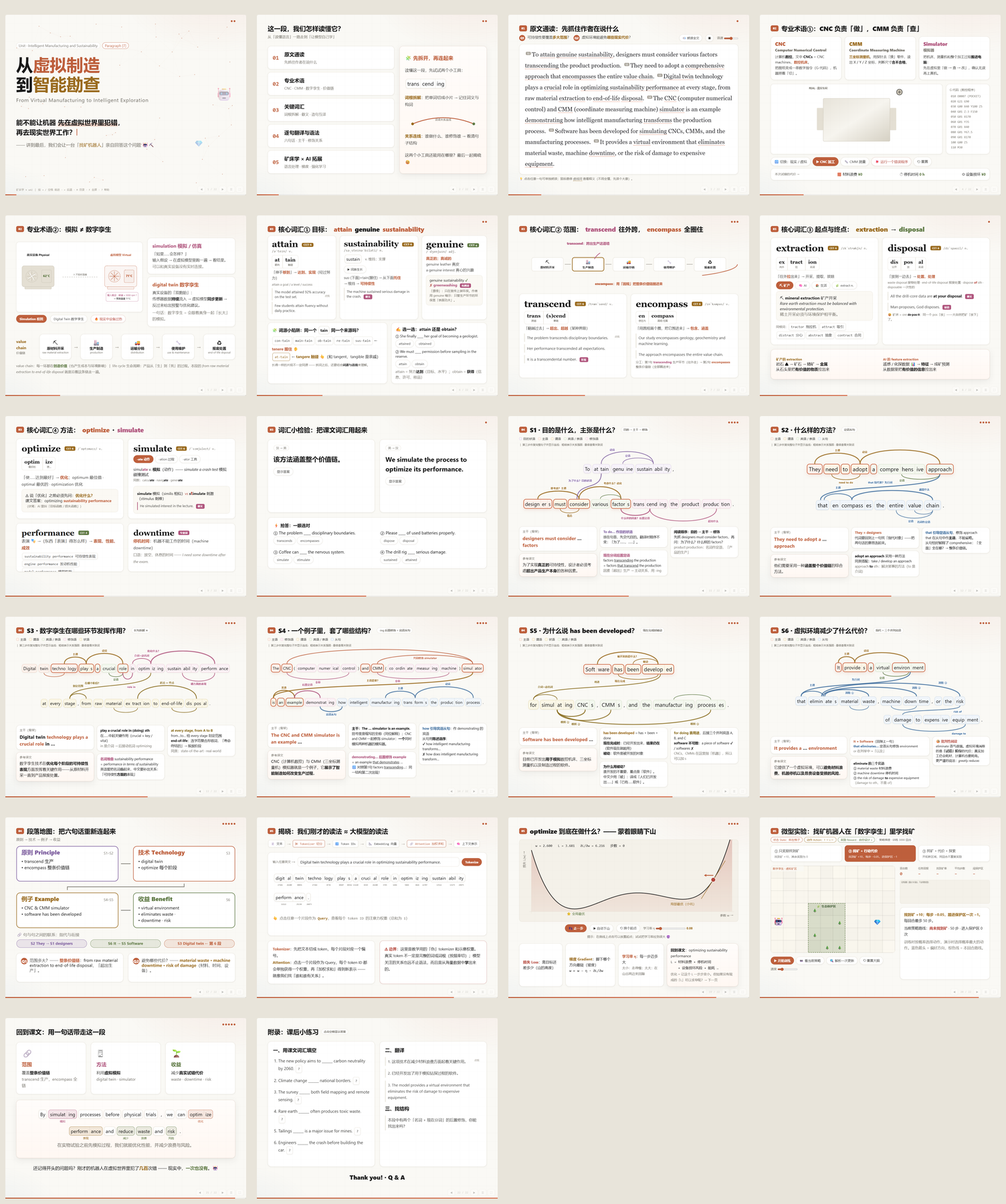
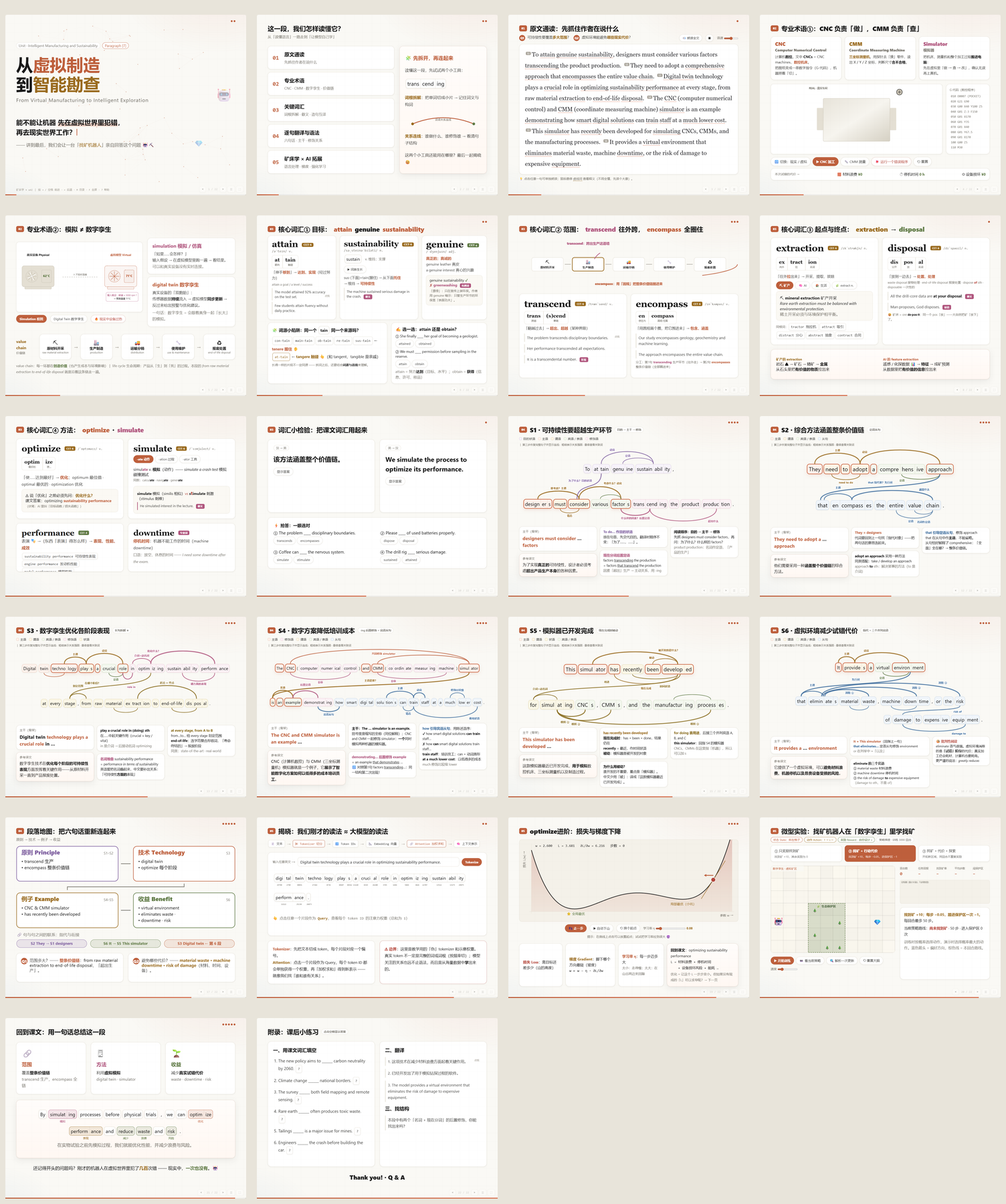
Update source sentences and explanations in both slide formats

diff --git a/paragraph7-4x3.html b/paragraph7-4x3.html
@@ -647,14 +647,14 @@ input[type=text]:focus{outline:none;border-color:var(--coral);box-shadow:0 0 0 3
   <div class="sent"></div>
   <div class="sbottom"></div>
 </section>
-<section class="slide" data-title="第4句：模拟器展示生产变革" data-sent="4" data-steps="4">
-  <h2><span class="no">04</span>S4 · 模拟器展示生产变革<span class="tag">-ing 后置修饰 + 宾语从句</span></h2>
+<section class="slide" data-title="第4句：数字方案降低培训成本" data-sent="4" data-steps="4">
+  <h2><span class="no">04</span>S4 · 数字方案降低培训成本<span class="tag">-ing 后置修饰 + 宾语从句</span></h2>
   <div class="legend"></div>
   <div class="sent"></div>
   <div class="sbottom"></div>
 </section>
-<section class="slide" data-title="第5句：模拟软件已开发完成" data-sent="5" data-steps="4">
-  <h2><span class="no">04</span>S5 · 模拟软件已开发完成<span class="tag">现在完成时被动</span></h2>
+<section class="slide" data-title="第5句：模拟器已开发完成" data-sent="5" data-steps="4">
+  <h2><span class="no">04</span>S5 · 模拟器已开发完成<span class="tag">现在完成时被动</span></h2>
   <div class="legend"></div>
   <div class="sent"></div>
   <div class="sbottom"></div>
@@ -836,25 +836,25 @@ const SENTS={
  notes:['<b>play a crucial role in (doing) sth</b><br>在……中起关键作用（crucial ≈ key / vital）<br><span class="muted">in 是介词 → 后接动名词 optimizing</span>',
   '<b class="c-pink">名词堆叠</b> sustainability performance<br>= performance <i>in terms of</i> sustainability<br>英语爱把名词叠起来，中文要补出关系：「可持续性<b>方面的</b>表现」',
   '<b class="c-yellow">at every stage, from A to B</b><br>from…to… 给 every stage 划定范围<br><b>end-of-life</b>：连字符复合形容词，「寿命终结的」→ 报废阶段<br><span class="muted">同类：state-of-the-art · real-world</span>']},
-4:{fs:20,toks:'The/sub/the* CNC/sub/cnc* (/p computer/mod/c1 numer·ical/mod/c2 control/mod/c3 )/p and/sub/and* CMM/sub/cmm* (/p co·ordin·ate/mod/m1 measur·ing/mod/m2 machine/mod/m3 )/p simul·ator/sub/sim* | is/pre/is* an/obj/an* example/obj/ex* demonstrat·ing/mod/demo how/cls/how intelligent/cls/int manufactur·ing/cls/man trans·form·s/cls/tf the/cls/the2 produc·tion/cls/prodn process/cls/proc ./p',
- arcs:[['is','sim','主语是谁？',1],['is','ex','系表',1,'u'],['demo','ex','后置定语',.9,'u'],['how','demo','宾语从句',.8,'d'],['tf','man','主谓',.8,'u'],['tf','proc','动宾',.8,'u'],['cnc','sim','',.55,'u'],['cmm','sim','共同修饰 simulator',.55,'u'],['c3','cnc','全称',.4,'d'],['m3','cmm','全称',.4,'d']],
+4:{fs:20,toks:'The/sub/the* CNC/sub/cnc* (/p computer/mod/c1 numer·ical/mod/c2 control/mod/c3 )/p and/sub/and* CMM/sub/cmm* (/p co·ordin·ate/mod/m1 measur·ing/mod/m2 machine/mod/m3 )/p simul·ator/sub/sim* | is/pre/is* an/obj/an* example/obj/ex* demonstrat·ing/mod/demo how/cls/how smart/cls/smart digi·tal/cls/digital solu·tion·s/cls/sol can/cls/can train/cls/train staff/cls/staff at/cls/at a/cls/a2 much/cls/much low·er/cls/lower cost/cls/cost ./p',
+ arcs:[['is','sim','主语是谁？',1],['is','ex','系表',1,'u'],['demo','ex','后置定语',.9,'u'],['how','demo','宾语从句',.8,'d'],['train','sol','主谓',.8,'u'],['train','staff','动宾',.8,'u'],['cnc','sim','',.55,'u'],['cmm','sim','共同修饰 simulator',.55,'u'],['c3','cnc','全称',.4,'d'],['m3','cmm','全称',.4,'d'],['can','train','情态',.45,'d'],['cost','train','费用状语',.6,'d'],['much','lower','修饰比较级',.45,'u']],
  skel:'<em>The CNC and CMM simulator is an example</em> …',
- zh:'CNC（计算机数控）与 CMM（三坐标测量机）模拟器就是一个例子，它<b>展示了智能制造如何改变生产过程</b>。',
+ zh:'CNC（计算机数控）与 CMM（三坐标测量机）模拟器就是一个例子，它<b>展示了智能数字化方案如何以低得多的成本培训员工</b>。',
  notes:['<b>主干：The … simulator is an example.</b><br>括号里是缩写的全称（同位解释）；CNC and CMM 一起修饰 simulator：<b>一个</b>同时模拟两种机器的模拟器。',
   '<b class="c-pink">demonstrating… 后置修饰 example</b><br>= an example <u>that demonstrates</u> …<br>🔁 对照第1句 factors <u>transcending</u>…：同一结构第二次出现！',
-  '<b class="c-blue">how 引导宾语从句</b>：作 demonstrating 的宾语<br>从句用<b>陈述语序</b>：<br>✔ how intelligent manufacturing transforms…<br>✘ how does intelligent manufacturing transform…']},
-5:{fs:27,toks:'Soft·ware/sub/sw* has/pre/has* been/pre/been* develop·ed/pre/dev* | for/adv/for simul·at·ing/adv/sim CNC·s/obj/cncs ,/p CMM·s/obj/cmms ,/p and/obj/and the/obj/the manufactur·ing/obj/man process·es/obj/proc ./p',
- arcs:[['dev','sw','被开发的是什么？',1,'u'],['has','dev','现在完成',.5,'d'],['been','dev','被动',.5,'u'],['for','dev','用途',.7],['sim','for','介词+动名词',.5,'u'],['sim','cncs','模拟 ①',1,'d'],['sim','cmms','模拟 ②',.85,'d'],['sim','proc','模拟 ③',.85,'d'],['man','proc','',.35,'u']],
- skel:'<em>Software has been developed</em> …',
- zh:'目前已开发出<b>用于模拟</b>数控机床、三坐标测量机以及制造过程的软件。',
- notes:['<b class="c-amber">has been developed</b> = has + been + done<br><b>现在完成时</b>：已经开发出来，<b>结果仍在</b>（软件现在就能用）<br><b>被动</b>：软件是被开发的对象',
-  '<b>为什么用被动？</b><br>谁开发的不重要，重点是「软件」。<br>中文少用「被」：译成「人们已开发出……」或「已有……软件」。',
-  '<b class="c-yellow">for doing 表用途</b>，后接三个并列宾语 A, B, and C<br><b>software 不可数</b>：a piece of software ✔ / softwares ✘<br><span class="muted">CNCs、CMMs 在这里指「机器」，所以可以加 s</span>']},
+  '<b class="c-blue">how 引导宾语从句</b>，用陈述语序：<br>✔ how smart digital solutions <b>can train</b> staff…<br>✘ how <b>can</b> smart digital solutions train staff…<br><b>train staff</b>：培训员工；can + 动词原形<br><b>at a much lower cost</b>：以低得多的成本<br><span class="muted">much 修饰比较级 lower</span>']},
+5:{fs:27,toks:'This/sub/this* simul·ator/sub/simulator* has/pre/has* recently/adv/recent been/pre/been* develop·ed/pre/dev* | for/adv/for simul·at·ing/adv/sim CNC·s/obj/cncs ,/p CMM·s/obj/cmms ,/p and/obj/and the/obj/the manufactur·ing/obj/man process·es/obj/proc ./p',
+ arcs:[['dev','simulator','被开发的是什么？',1,'u'],['has','dev','现在完成',.5,'d'],['been','dev','被动',.5,'u'],['for','dev','用途',.7],['sim','for','介词+动名词',.5,'u'],['sim','cncs','模拟 ①',1,'d'],['sim','cmms','模拟 ②',.85,'d'],['sim','proc','模拟 ③',.85,'d'],['man','proc','',.35,'u'],['recent','dev','时间状语',.5,'d']],
+ skel:'<em>This simulator has been developed</em> …',
+ zh:'这款模拟器最近已开发完成，<b>用于模拟</b>数控机床、三坐标测量机以及制造过程。',
+ notes:['<b class="c-amber">has recently been developed</b><br><b>现在完成时</b>：has + been + done，结果仍在<br><b>recently</b> = 最近，作时间状语<br><b>被动</b>：模拟器是被开发的对象',
+  '<b>为什么用被动？</b><br>谁开发的不重要，重点是「模拟器」。<br>中文少用「被」：译成「这款模拟器最近已开发完成」。',
+  '<b class="c-yellow">for doing 表用途</b>，后接三个并列宾语 A, B, and C<br><b>this simulator</b>：回指 S4 的模拟器<br><span class="muted">CNCs、CMMs 在这里指「机器」，所以可以加 s</span>']},
 6:{fs:24,toks:'It/sub/it* provide·s/pre/prov* a/obj/a* virtual/obj/virt environ·ment/obj/env* | that/cls/that elimin·ate·s/cls/elim material/cls/mat waste/cls/waste ,/p machine/cls/mach down·time/cls/dt ,/p or/cls/or the/cls/the risk/cls/risk | of/cls/of damage/cls/dmg to/cls/to expens·ive/cls/expv equip·ment/cls/eq ./p',
  arcs:[['prov','it','主谓',1,'u'],['prov','env','动宾',1,'u'],['virt','env','定语',.5,'d'],['that','env','先行词',.9],['elim','that','主谓',.7,'u'],['elim','waste','消除 ①',1,'u'],['elim','dt','消除 ②',.9,'u'],['elim','risk','消除 ③',.9,'u'],['mat','waste','',.3,'d'],['mach','dt','',.3,'d'],['dmg','risk','risk of',.6,'d'],['eq','dmg','damage to',.6,'d']],
  skel:'<em>It provides a</em> … <em>environment</em>',
  zh:'它提供了一个虚拟环境，可以<b>避免材料浪费、机器停机以及昂贵设备受损的风险</b>。',
- notes:['<b class="c-cyan">It = Software</b>（回指上一句）<br><b class="c-blue">that eliminates…</b> 定语从句修饰 environment<br><span class="muted">or 在列举中 ≈「以及」</span>',
+ notes:['<b class="c-cyan">It = This simulator</b>（回指上一句）<br><b class="c-blue">that eliminates…</b> 定语从句修饰 environment<br><span class="muted">or 在列举中 ≈「以及」</span>',
   '<b>eliminate 的三个宾语</b><br>① material waste 材料浪费<br>② machine downtime 停机时间<br>③ the risk of damage <b>to</b> expensive equipment <span class="muted">（damage to sth，不是 of）</span>',
   '<b class="c-red">🧐 批判性阅读</b><br>eliminate 语气很强。虚拟环境消除的是<b>「试错」阶段</b>的代价；真实加工仍会耗材，计算机也要耗电。<br>更严谨的说法：<i>greatly reduces</i>']}
 };
@@ -924,10 +924,10 @@ document.addEventListener('click',e=>{
 const PARA=["To attain genuine sustainability, designers must consider various factors transcending the product production.",
 "They need to adopt a comprehensive approach that encompasses the entire value chain.",
 "Digital twin technology plays a crucial role in optimizing sustainability performance at every stage, from raw material extraction to end-of-life disposal.",
-"The CNC (computer numerical control) and CMM (coordinate measuring machine) simulator is an example demonstrating how intelligent manufacturing transforms the production process.",
-"Software has been developed for simulating CNCs, CMMs, and the manufacturing processes.",
+"The CNC (computer numerical control) and CMM (coordinate measuring machine) simulator is an example demonstrating how smart digital solutions can train staff at a much lower cost.",
+"This simulator has recently been developed for simulating CNCs, CMMs, and the manufacturing processes.",
 "It provides a virtual environment that eliminates material waste, machine downtime, or the risk of damage to expensive equipment."];
-const GL={'attain':'达到；实现','genuine':'真正的','sustainability':'可持续性','transcending':'超越；超出','comprehensive':'全面的；综合的','approach':'方法；途径','encompasses':'包含；涵盖','value chain':'价值链','Digital twin':'数字孪生（第6段介绍过）','crucial':'关键的','optimizing':'优化','performance':'表现；性能','extraction':'开采；提取','end-of-life':'寿命终结的 → 报废的','disposal':'处置；处理','CNC':'计算机数控 —— 下一页详细讲','CMM':'三坐标测量机 —— 下一页详细讲','simulator':'模拟器','demonstrating':'展示；证明','transforms':'改变；转变','simulating':'模拟','virtual':'虚拟的','eliminates':'消除','downtime':'停机时间','equipment':'设备'};
+const GL={'attain':'达到；实现','genuine':'真正的','sustainability':'可持续性','transcending':'超越；超出','comprehensive':'全面的；综合的','approach':'方法；途径','encompasses':'包含；涵盖','value chain':'价值链','Digital twin':'数字孪生（第6段介绍过）','crucial':'关键的','optimizing':'优化','performance':'表现；性能','extraction':'开采；提取','end-of-life':'寿命终结的 → 报废的','disposal':'处置；处理','CNC':'计算机数控 —— 下一页详细讲','CMM':'三坐标测量机 —— 下一页详细讲','simulator':'模拟器','demonstrating':'展示；证明','smart':'智能的','digital':'数字的；数字化的','solutions':'解决方案','train':'培训（此处不是「火车」）','staff':'员工；全体工作人员','much lower cost':'低得多的成本（much 修饰比较级 lower）','recently':'最近；近来','simulating':'模拟','virtual':'虚拟的','eliminates':'消除','downtime':'停机时间','equipment':'设备'};
 (function(){const keys=Object.keys(GL).sort((a,b)=>b.length-a.length);
  $('#para7').innerHTML=PARA.map((s,i)=>{let t=s;const ph=[];keys.forEach(k=>{t=t.replace(new RegExp('\\b'+k.replace(/-/g,'\\-')+'\\b','g'),m=>{ph.push(`<span class="w" data-g="<b>${m}</b>　${GL[k]}">${m}</span>`);return '\u0001'+(ph.length-1)+'\u0002'})});
   t=t.replace(/\u0001(\d+)\u0002/g,(_,n)=>ph[n]);return `<span class="s" data-i="${i}"><span class="sn">S${i+1}</span>${t}</span> `}).join('')})();
@@ -1075,7 +1075,7 @@ const SENT_LAYOUT={
  1:{pad:5,top:80,bottom:82,gaps:[130]},
  2:{pad:7,top:80,bottom:78,gaps:[132]},
  3:{pad:5,top:76,bottom:80,gaps:[132]},
- 4:{pad:5,top:76,bottom:76,gaps:[130]},
+ 4:{pad:4,top:76,bottom:76,gaps:[130]},
  5:{pad:7,top:78,bottom:82,gaps:[130]},
  6:{pad:6,top:70,bottom:54,gaps:[124,48],align:['center','center','flex-end']}
 };
@@ -1084,8 +1084,8 @@ const SENT_ARCS={
  1:[{h:38},{h:60},{h:32},{t:.45,dx:70,dy:-28,bx:-10},{h:60},{h:28},{h:60},{h:20},{h:20}],
  2:[{h:52},{h:26},{h:68},{h:24},{dy:-18,ax:-10},{h:30,bx:8},{h:46},{h:38},{h:18}],
  3:[{h:32},{h:50},{h:18},{h:18},{h:30},{h:25},{h:62},{h:40},{t:.65,dy:-18},{h:24},{h:64},{h:22},{h:22}],
- 4:[{dy:-18},{h:36},{h:34},{h:24},{h:32},{h:54},{h:70},{h:42},{h:34},{h:30}],
- 5:[{h:60},{h:24},{h:26},{dy:-20,bx:12},{h:24},{h:32},{h:52},{h:72},{h:24}],
+ 4:[{dy:-18},{h:36},{h:34},{h:24},{h:32},{h:24},{h:70},{h:42},{h:34},{h:30},{h:20},{h:54},{h:24}],
+ 5:[{h:60},{h:46},{h:26},{dy:-20,bx:12},{h:24},{h:32},{h:52},{h:72},{h:24},{h:22}],
  6:[{h:28},{h:48},{h:20},{dy:-18,bx:8},{h:24},{h:32,t:.6,ax:8},{h:44,t:.62},{h:64,t:.78,ax:-8},{h:20},{h:20},{dy:-18},{h:34}]
 };
 function parseToks(str){return str.split(/\s+/).filter(Boolean).map(t=>{if(t==='|')return{br:1};const[a,r,k]=t.split('/');const core=/\*$/.test(k||'');return{text:a,pieces:a.split('·'),r,k:(k||'').replace('*',''),core}})}
@@ -1168,14 +1168,14 @@ function focusTok(sl,k,on){const S=sl._S;if(!S.shown){return}
 $$('.slide[data-sent]').forEach(buildSentence);
 
 /* ================= PARAGRAPH MAP ================= */
-(function(){const svg=$('#map-svg');const B=[['原则 Principle','S1–S2','#7C5C9E',['transcend 生产','encompass 整条价值链']],['技术 Technology','S3','#BE5F3C',['digital twin','optimize 每个阶段']],['例子 Example','S4–S5','#9A6B1F',['CNC & CMM simulator','software has been developed']],['收益 Benefit','S6','#5F7A45',['virtual environment','eliminates waste ·','downtime · risk']]];
+(function(){const svg=$('#map-svg');const B=[['原则 Principle','S1–S2','#7C5C9E',['transcend 生产','encompass 整条价值链']],['技术 Technology','S3','#BE5F3C',['digital twin','optimize 每个阶段']],['例子 Example','S4–S5','#9A6B1F',['CNC & CMM simulator','has recently been developed']],['收益 Benefit','S6','#5F7A45',['virtual environment','eliminates waste ·','downtime · risk']]];
  const w=510,h=174;let s='';
  B.forEach((b,i)=>{const x=(i%2)*582,y=Math.floor(i/2)*232;
   s+=`<g class="mp" data-i="${i}" style="opacity:0;transition:opacity .5s,transform .5s;transform:translateY(16px)"><rect x="${x+2}" y="${y+2}" width="${w-4}" height="${h}" rx="18" fill="#FFFFFF" stroke="${b[2]}" stroke-width="2.5"/><text x="${x+26}" y="${y+43}" font-size="29" font-weight="800" fill="${b[2]}">${b[0]}</text><text x="${x+w-26}" y="${y+43}" font-size="18" text-anchor="end" fill="#75726A" font-family="Consolas">${b[1]}</text>${b[3].map((l,j)=>`<text x="${x+26}" y="${y+85+j*31}" font-size="22" fill="#191919">• ${l}</text>`).join('')}</g>`;
   const d=i===0?'M522 89h48':i===1?'M837 188v16H255v16':i===2?'M522 321h48':null;
   if(d)s+=`<path class="mpa" data-i="${i+1}" d="${d}" fill="none" stroke="#75726A" stroke-width="3" style="opacity:0;transition:.4s"/>`;
  });
- s+=`<g id="mp-co" style="opacity:0;transition:.5s"><text x="2" y="450" font-size="20" fill="#75726A">🔗 句与句之间的联系：指代与衔接</text>`+[["S2 They → S1 designers","#7C5C9E"],["S6 It → S5 Software","#5F7A45"],["S3 Digital twin ← 第 6 段","#BE5F3C"]].map((t,i)=>`<rect x="${2+i*368}" y="467" width="350" height="40" rx="20" fill="${t[1]}22" stroke="${t[1]}"/><text x="${177+i*368}" y="493" text-anchor="middle" font-size="19" font-weight="700" fill="${t[1]}">${t[0]}</text>`).join("")+`</g>`;
+ s+=`<g id="mp-co" style="opacity:0;transition:.5s"><text x="2" y="450" font-size="20" fill="#75726A">🔗 句与句之间的联系：指代与衔接</text>`+[["S2 They → S1 designers","#7C5C9E"],["S6 It → S5 This simulator","#5F7A45"],["S3 Digital twin ← 第 6 段","#BE5F3C"]].map((t,i)=>`<rect x="${2+i*368}" y="467" width="350" height="40" rx="20" fill="${t[1]}22" stroke="${t[1]}"/><text x="${177+i*368}" y="493" text-anchor="middle" font-size="19" font-weight="700" fill="${t[1]}">${t[0]}</text>`).join("")+`</g>`;
  svg.innerHTML=s;
  hooks['s-map']={step(sl,n){$$('.mp',svg).forEach(g=>{const on=+g.dataset.i<n;g.style.opacity=on?1:0;g.style.transform=on?'none':'translateY(16px)'});$$('.mpa',svg).forEach(p=>p.style.opacity=+p.dataset.i<n?1:0);$('#mp-co').style.opacity=n>=4?1:0}};
  $('#s-map').dataset.steps=5})();

diff --git a/paragraph7.html b/paragraph7.html
@@ -522,14 +522,14 @@ input[type=text]:focus{outline:none;border-color:var(--coral);box-shadow:0 0 0 3
   <div class="sent"></div>
   <div class="sbottom"></div>
 </section>
-<section class="slide" data-title="第4句：模拟器展示生产变革" data-sent="4" data-steps="4">
-  <h2><span class="no">04</span>S4 · 模拟器展示生产变革<span class="tag">-ing 后置修饰 + 宾语从句</span></h2>
+<section class="slide" data-title="第4句：数字方案降低培训成本" data-sent="4" data-steps="4">
+  <h2><span class="no">04</span>S4 · 数字方案降低培训成本<span class="tag">-ing 后置修饰 + 宾语从句</span></h2>
   <div class="legend"></div>
   <div class="sent"></div>
   <div class="sbottom"></div>
 </section>
-<section class="slide" data-title="第5句：模拟软件已开发完成" data-sent="5" data-steps="4">
-  <h2><span class="no">04</span>S5 · 模拟软件已开发完成<span class="tag">现在完成时被动</span></h2>
+<section class="slide" data-title="第5句：模拟器已开发完成" data-sent="5" data-steps="4">
+  <h2><span class="no">04</span>S5 · 模拟器已开发完成<span class="tag">现在完成时被动</span></h2>
   <div class="legend"></div>
   <div class="sent"></div>
   <div class="sbottom"></div>
@@ -710,25 +710,25 @@ const SENTS={
  notes:['<b>play a crucial role in (doing) sth</b><br>在……中起关键作用（crucial ≈ key / vital）<br><span class="muted">in 是介词 → 后接动名词 optimizing</span>',
   '<b class="c-pink">名词堆叠</b> sustainability performance<br>= performance <i>in terms of</i> sustainability<br>英语爱把名词叠起来，中文要补出关系：「可持续性<b>方面的</b>表现」',
   '<b class="c-yellow">at every stage, from A to B</b><br>from…to… 给 every stage 划定范围<br><b>end-of-life</b>：连字符复合形容词，「寿命终结的」→ 报废阶段<br><span class="muted">同类：state-of-the-art · real-world</span>']},
-4:{fs:22,toks:'The/sub/the* CNC/sub/cnc* (/p computer/mod/c1 numer·ical/mod/c2 control/mod/c3 )/p and/sub/and* CMM/sub/cmm* (/p co·ordin·ate/mod/m1 measur·ing/mod/m2 machine/mod/m3 )/p simul·ator/sub/sim* | is/pre/is* an/obj/an* example/obj/ex* demonstrat·ing/mod/demo how/cls/how intelligent/cls/int manufactur·ing/cls/man trans·form·s/cls/tf the/cls/the2 produc·tion/cls/prodn process/cls/proc ./p',
- arcs:[['is','sim','主语是谁？',1],['is','ex','系表',1,'u'],['demo','ex','后置定语',.9,'u'],['how','demo','宾语从句',.8,'d'],['tf','man','主谓',.8,'u'],['tf','proc','动宾',.8,'u'],['cnc','sim','',.55,'u'],['cmm','sim','共同修饰 simulator',.55,'u'],['c3','cnc','全称',.4,'d'],['m3','cmm','全称',.4,'d']],
+4:{fs:22,toks:'The/sub/the* CNC/sub/cnc* (/p computer/mod/c1 numer·ical/mod/c2 control/mod/c3 )/p and/sub/and* CMM/sub/cmm* (/p co·ordin·ate/mod/m1 measur·ing/mod/m2 machine/mod/m3 )/p simul·ator/sub/sim* | is/pre/is* an/obj/an* example/obj/ex* demonstrat·ing/mod/demo how/cls/how smart/cls/smart digi·tal/cls/digital solu·tion·s/cls/sol can/cls/can train/cls/train staff/cls/staff at/cls/at a/cls/a2 much/cls/much low·er/cls/lower cost/cls/cost ./p',
+ arcs:[['is','sim','主语是谁？',1],['is','ex','系表',1,'u'],['demo','ex','后置定语',.9,'u'],['how','demo','宾语从句',.8,'d'],['train','sol','主谓',.8,'u'],['train','staff','动宾',.8,'u'],['cnc','sim','',.55,'u'],['cmm','sim','共同修饰 simulator',.55,'u'],['c3','cnc','全称',.4,'d'],['m3','cmm','全称',.4,'d'],['can','train','情态',.45,'d'],['cost','train','费用状语',.6,'d'],['much','lower','修饰比较级',.45,'u']],
  skel:'<em>The CNC and CMM simulator is an example</em> …',
- zh:'CNC（计算机数控）与 CMM（三坐标测量机）模拟器就是一个例子，它<b>展示了智能制造如何改变生产过程</b>。',
+ zh:'CNC（计算机数控）与 CMM（三坐标测量机）模拟器就是一个例子，它<b>展示了智能数字化方案如何以低得多的成本培训员工</b>。',
  notes:['<b>主干：The … simulator is an example.</b><br>括号里是缩写的全称（同位解释）；CNC and CMM 一起修饰 simulator：<b>一个</b>同时模拟两种机器的模拟器。',
   '<b class="c-pink">demonstrating… 后置修饰 example</b><br>= an example <u>that demonstrates</u> …<br>🔁 对照第1句 factors <u>transcending</u>…：同一结构第二次出现！',
-  '<b class="c-blue">how 引导宾语从句</b>：作 demonstrating 的宾语<br>从句用<b>陈述语序</b>：<br>✔ how intelligent manufacturing transforms…<br>✘ how does intelligent manufacturing transform…']},
-5:{fs:27,toks:'Soft·ware/sub/sw* has/pre/has* been/pre/been* develop·ed/pre/dev* | for/adv/for simul·at·ing/adv/sim CNC·s/obj/cncs ,/p CMM·s/obj/cmms ,/p and/obj/and the/obj/the manufactur·ing/obj/man process·es/obj/proc ./p',
- arcs:[['dev','sw','被开发的是什么？',1,'u'],['has','dev','现在完成',.5,'d'],['been','dev','被动',.5,'u'],['for','dev','用途',.7],['sim','for','介词+动名词',.5,'u'],['sim','cncs','模拟 ①',1,'d'],['sim','cmms','模拟 ②',.85,'d'],['sim','proc','模拟 ③',.85,'d'],['man','proc','',.35,'u']],
- skel:'<em>Software has been developed</em> …',
- zh:'目前已开发出<b>用于模拟</b>数控机床、三坐标测量机以及制造过程的软件。',
- notes:['<b class="c-amber">has been developed</b> = has + been + done<br><b>现在完成时</b>：已经开发出来，<b>结果仍在</b>（软件现在就能用）<br><b>被动</b>：软件是被开发的对象',
-  '<b>为什么用被动？</b><br>谁开发的不重要，重点是「软件」。<br>中文少用「被」：译成「人们已开发出……」或「已有……软件」。',
-  '<b class="c-yellow">for doing 表用途</b>，后接三个并列宾语 A, B, and C<br><b>software 不可数</b>：a piece of software ✔ / softwares ✘<br><span class="muted">CNCs、CMMs 在这里指「机器」，所以可以加 s</span>']},
+  '<b class="c-blue">how 引导宾语从句</b>，用陈述语序：<br>✔ how smart digital solutions <b>can train</b> staff…<br>✘ how <b>can</b> smart digital solutions train staff…<br><b>train staff</b>：培训员工；can + 动词原形<br><b>at a much lower cost</b>：以低得多的成本<br><span class="muted">much 修饰比较级 lower</span>']},
+5:{fs:27,toks:'This/sub/this* simul·ator/sub/simulator* has/pre/has* recently/adv/recent been/pre/been* develop·ed/pre/dev* | for/adv/for simul·at·ing/adv/sim CNC·s/obj/cncs ,/p CMM·s/obj/cmms ,/p and/obj/and the/obj/the manufactur·ing/obj/man process·es/obj/proc ./p',
+ arcs:[['dev','simulator','被开发的是什么？',1,'u'],['has','dev','现在完成',.5,'d'],['been','dev','被动',.5,'u'],['for','dev','用途',.7],['sim','for','介词+动名词',.5,'u'],['sim','cncs','模拟 ①',1,'d'],['sim','cmms','模拟 ②',.85,'d'],['sim','proc','模拟 ③',.85,'d'],['man','proc','',.35,'u'],['recent','dev','时间状语',.5,'d']],
+ skel:'<em>This simulator has been developed</em> …',
+ zh:'这款模拟器最近已开发完成，<b>用于模拟</b>数控机床、三坐标测量机以及制造过程。',
+ notes:['<b class="c-amber">has recently been developed</b><br><b>现在完成时</b>：has + been + done，结果仍在<br><b>recently</b> = 最近，作时间状语<br><b>被动</b>：模拟器是被开发的对象',
+  '<b>为什么用被动？</b><br>谁开发的不重要，重点是「模拟器」。<br>中文少用「被」：译成「这款模拟器最近已开发完成」。',
+  '<b class="c-yellow">for doing 表用途</b>，后接三个并列宾语 A, B, and C<br><b>this simulator</b>：回指 S4 的模拟器<br><span class="muted">CNCs、CMMs 在这里指「机器」，所以可以加 s</span>']},
 6:{fs:21,toks:'It/sub/it* provide·s/pre/prov* a/obj/a* virtual/obj/virt environ·ment/obj/env* | that/cls/that elimin·ate·s/cls/elim material/cls/mat waste/cls/waste ,/p machine/cls/mach down·time/cls/dt ,/p or/cls/or the/cls/the risk/cls/risk of/cls/of damage/cls/dmg to/cls/to expens·ive/cls/expv equip·ment/cls/eq ./p',
  arcs:[['prov','it','主谓',1,'u'],['prov','env','动宾',1,'u'],['virt','env','定语',.5,'d'],['that','env','先行词',.9],['elim','that','主谓',.7,'u'],['elim','waste','消除 ①',1,'u'],['elim','dt','消除 ②',.9,'u'],['elim','risk','消除 ③',.9,'u'],['mat','waste','',.3,'d'],['mach','dt','',.3,'d'],['dmg','risk','risk of',.6,'d'],['eq','dmg','damage to',.6,'d']],
  skel:'<em>It provides a</em> … <em>environment</em>',
  zh:'它提供了一个虚拟环境，可以<b>避免材料浪费、机器停机以及昂贵设备受损的风险</b>。',
- notes:['<b class="c-cyan">It = Software</b>（回指上一句）<br><b class="c-blue">that eliminates…</b> 定语从句修饰 environment<br><span class="muted">or 在列举中 ≈「以及」</span>',
+ notes:['<b class="c-cyan">It = This simulator</b>（回指上一句）<br><b class="c-blue">that eliminates…</b> 定语从句修饰 environment<br><span class="muted">or 在列举中 ≈「以及」</span>',
   '<b>eliminate 的三个宾语</b><br>① material waste 材料浪费<br>② machine downtime 停机时间<br>③ the risk of damage <b>to</b> expensive equipment <span class="muted">（damage to sth，不是 of）</span>',
   '<b class="c-red">🧐 批判性阅读</b><br>eliminate 语气很强。虚拟环境消除的是<b>「试错」阶段</b>的代价；真实加工仍会耗材，计算机也要耗电。<br>更严谨的说法：<i>greatly reduces</i>']}
 };
@@ -798,10 +798,10 @@ document.addEventListener('click',e=>{
 const PARA=["To attain genuine sustainability, designers must consider various factors transcending the product production.",
 "They need to adopt a comprehensive approach that encompasses the entire value chain.",
 "Digital twin technology plays a crucial role in optimizing sustainability performance at every stage, from raw material extraction to end-of-life disposal.",
-"The CNC (computer numerical control) and CMM (coordinate measuring machine) simulator is an example demonstrating how intelligent manufacturing transforms the production process.",
-"Software has been developed for simulating CNCs, CMMs, and the manufacturing processes.",
+"The CNC (computer numerical control) and CMM (coordinate measuring machine) simulator is an example demonstrating how smart digital solutions can train staff at a much lower cost.",
+"This simulator has recently been developed for simulating CNCs, CMMs, and the manufacturing processes.",
 "It provides a virtual environment that eliminates material waste, machine downtime, or the risk of damage to expensive equipment."];
-const GL={'attain':'达到；实现','genuine':'真正的','sustainability':'可持续性','transcending':'超越；超出','comprehensive':'全面的；综合的','approach':'方法；途径','encompasses':'包含；涵盖','value chain':'价值链','Digital twin':'数字孪生（第6段介绍过）','crucial':'关键的','optimizing':'优化','performance':'表现；性能','extraction':'开采；提取','end-of-life':'寿命终结的 → 报废的','disposal':'处置；处理','CNC':'计算机数控 —— 下一页详细讲','CMM':'三坐标测量机 —— 下一页详细讲','simulator':'模拟器','demonstrating':'展示；证明','transforms':'改变；转变','simulating':'模拟','virtual':'虚拟的','eliminates':'消除','downtime':'停机时间','equipment':'设备'};
+const GL={'attain':'达到；实现','genuine':'真正的','sustainability':'可持续性','transcending':'超越；超出','comprehensive':'全面的；综合的','approach':'方法；途径','encompasses':'包含；涵盖','value chain':'价值链','Digital twin':'数字孪生（第6段介绍过）','crucial':'关键的','optimizing':'优化','performance':'表现；性能','extraction':'开采；提取','end-of-life':'寿命终结的 → 报废的','disposal':'处置；处理','CNC':'计算机数控 —— 下一页详细讲','CMM':'三坐标测量机 —— 下一页详细讲','simulator':'模拟器','demonstrating':'展示；证明','smart':'智能的','digital':'数字的；数字化的','solutions':'解决方案','train':'培训（此处不是「火车」）','staff':'员工；全体工作人员','much lower cost':'低得多的成本（much 修饰比较级 lower）','recently':'最近；近来','simulating':'模拟','virtual':'虚拟的','eliminates':'消除','downtime':'停机时间','equipment':'设备'};
 (function(){const keys=Object.keys(GL).sort((a,b)=>b.length-a.length);
  $('#para7').innerHTML=PARA.map((s,i)=>{let t=s;const ph=[];keys.forEach(k=>{t=t.replace(new RegExp('\\b'+k.replace(/-/g,'\\-')+'\\b','g'),m=>{ph.push(`<span class="w" data-g="<b>${m}</b>　${GL[k]}">${m}</span>`);return '\u0001'+(ph.length-1)+'\u0002'})});
   t=t.replace(/\u0001(\d+)\u0002/g,(_,n)=>ph[n]);return `<span class="s" data-i="${i}"><span class="sn">S${i+1}</span>${t}</span> `}).join('')})();
@@ -962,7 +962,7 @@ function layoutArcs(sl){const S=sl._S,el=S.el,W=el.offsetWidth,H=el.offsetHeight
  let s='';
  S.arcs.forEach((a,i)=>{const A=S.map[a[0]],B=S.map[a[1]];if(!A||!B){console.warn('arc',a);return}
   const ax=A.offsetLeft+A.offsetWidth/2,bx=B.offsetLeft+B.offsetWidth/2,at=A.offsetTop,ab=at+A.offsetHeight,bt=B.offsetTop,bb=bt+B.offsetHeight;let d,lx=ax*.4+bx*.6,ly;
-  if(Math.abs(at-bt)<8){const dx=Math.abs(ax-bx),h=14+62*(1-Math.exp(-dx/350));if((a[4]||'u')==='u'){d=`M${ax},${at-2} C${ax},${at-h*1.33} ${bx},${bt-h*1.33} ${bx},${bt-2}`;ly=at-h-5}else{d=`M${ax},${ab+2} C${ax},${ab+h*1.33} ${bx},${bb+h*1.33} ${bx},${bb+2}`;ly=ab+h+15}}
+  if(Math.abs(at-bt)<8){const dx=Math.abs(ax-bx),h=sl.dataset.sent==='5'&&a[0]==='recent'?22:14+62*(1-Math.exp(-dx/350));if((a[4]||'u')==='u'){d=`M${ax},${at-2} C${ax},${at-h*1.33} ${bx},${bt-h*1.33} ${bx},${bt-2}`;ly=at-h-5}else{d=`M${ax},${ab+2} C${ax},${ab+h*1.33} ${bx},${bb+h*1.33} ${bx},${bb+2}`;ly=ab+h+15}}
   else if(at<bt){const m=bt-ab;d=`M${ax},${ab+2} C${ax},${ab+m*.7} ${bx},${bt-m*.7} ${bx},${bt-2}`;ly=(ab+bt)/2+5}
   else{const m=at-bb;d=`M${ax},${at-2} C${ax},${at-m*.7} ${bx},${bb+m*.7} ${bx},${bb+2}`;ly=(bb+at)/2+5}
   const col=ROLE[A.dataset.r][1],w=a[3];
@@ -980,12 +980,12 @@ function focusTok(sl,k,on){const S=sl._S;if(!S.shown){return}
 $$('.slide[data-sent]').forEach(buildSentence);
 
 /* ================= PARAGRAPH MAP ================= */
-(function(){const svg=$('#map-svg');const B=[['原则 Principle','S1–S2','#7C5C9E',['transcend 生产','encompass 整条价值链']],['技术 Technology','S3','#BE5F3C',['digital twin','optimize 每个阶段']],['例子 Example','S4–S5','#9A6B1F',['CNC & CMM simulator','software has been developed']],['收益 Benefit','S6','#5F7A45',['virtual environment','eliminates waste ·','downtime · risk']]];
+(function(){const svg=$('#map-svg');const B=[['原则 Principle','S1–S2','#7C5C9E',['transcend 生产','encompass 整条价值链']],['技术 Technology','S3','#BE5F3C',['digital twin','optimize 每个阶段']],['例子 Example','S4–S5','#9A6B1F',['CNC & CMM simulator','has recently been developed']],['收益 Benefit','S6','#5F7A45',['virtual environment','eliminates waste ·','downtime · risk']]];
  const w=310,g=72,x0=(1456-(4*w+3*g))/2,y=20,h=190;let s='';
  B.forEach((b,i)=>{const x=x0+i*(w+g);s+=`<g class="mp" data-i="${i}" style="opacity:0;transition:opacity .5s,transform .5s;transform:translateY(16px)"><rect x="${x}" y="${y}" width="${w}" height="${h}" rx="18" fill="#FFFFFF" stroke="${b[2]}" stroke-width="2.5"/><text x="${x+22}" y="${y+44}" font-size="26" font-weight="800" fill="${b[2]}">${b[0]}</text><text x="${x+w-20}" y="${y+44}" font-size="17" text-anchor="end" fill="#75726A" font-family="Consolas">${b[1]}</text>${b[3].map((l,j)=>`<text x="${x+22}" y="${y+90+j*34}" font-size="19" fill="#191919">• ${l}</text>`).join('')}</g>`;
   if(i<3)s+=`<path class="mpa" data-i="${i+1}" d="M${x+w+8} ${y+h/2}h${g-16}" stroke="#75726A" stroke-width="3" style="opacity:0;transition:.4s"/>`});
  const cy=y+h+40;
- s+=`<g id="mp-co" style="opacity:0;transition:.5s"><text x="${x0}" y="${cy+10}" font-size="19" fill="#75726A">🔗 句与句之间的联系：指代与衔接</text>`+[["S2 They → S1 designers","#7C5C9E"],["S6 It → S5 Software","#5F7A45"],["S3 Digital twin ← 第 6 段","#BE5F3C"]].map((t,i)=>`<rect x="${x0+i*400}" y="${cy+30}" width="370" height="46" rx="23" fill="${t[1]}22" stroke="${t[1]}"/><text x="${x0+i*400+185}" y="${cy+60}" text-anchor="middle" font-size="19" font-weight="700" fill="${t[1]}">${t[0]}</text>`).join("")+`</g>`;
+ s+=`<g id="mp-co" style="opacity:0;transition:.5s"><text x="${x0}" y="${cy+10}" font-size="19" fill="#75726A">🔗 句与句之间的联系：指代与衔接</text>`+[["S2 They → S1 designers","#7C5C9E"],["S6 It → S5 This simulator","#5F7A45"],["S3 Digital twin ← 第 6 段","#BE5F3C"]].map((t,i)=>`<rect x="${x0+i*400}" y="${cy+30}" width="370" height="46" rx="23" fill="${t[1]}22" stroke="${t[1]}"/><text x="${x0+i*400+185}" y="${cy+60}" text-anchor="middle" font-size="19" font-weight="700" fill="${t[1]}">${t[0]}</text>`).join("")+`</g>`;
  svg.innerHTML=s;
  hooks['s-map']={step(sl,n){$$('.mp',svg).forEach(g=>{const on=+g.dataset.i<n;g.style.opacity=on?1:0;g.style.transform=on?'none':'translateY(16px)'});$$('.mpa',svg).forEach(p=>p.style.opacity=+p.dataset.i<n?1:0);$('#mp-co').style.opacity=n>=4?1:0}};
  $('#s-map').dataset.steps=5})();
